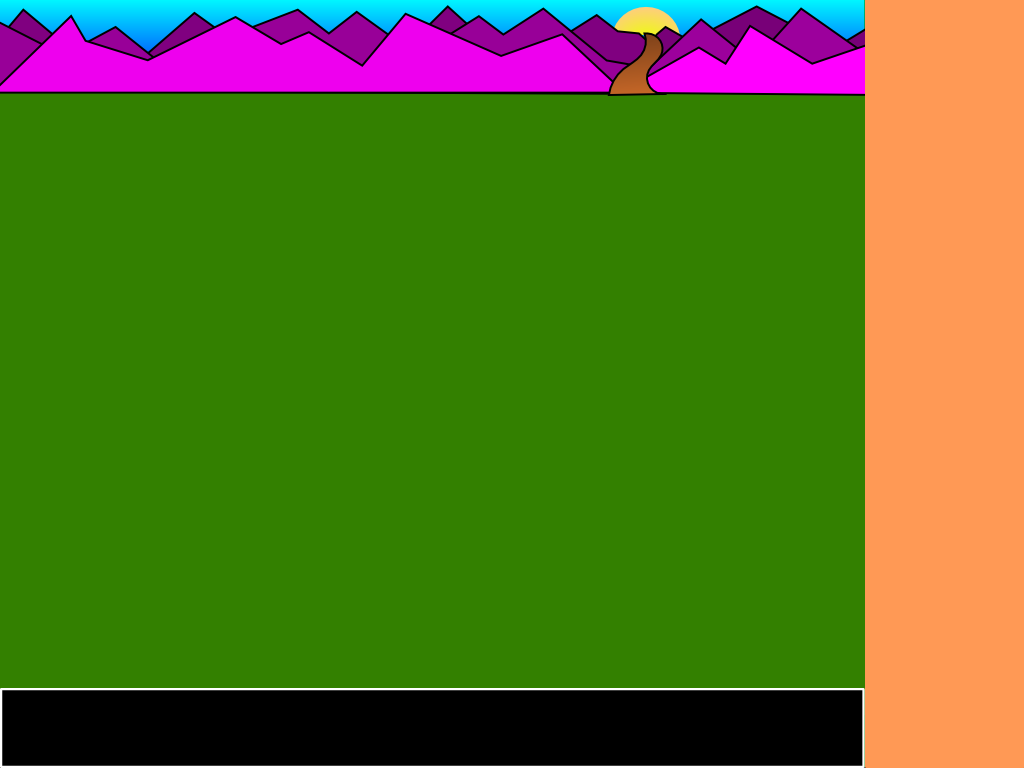
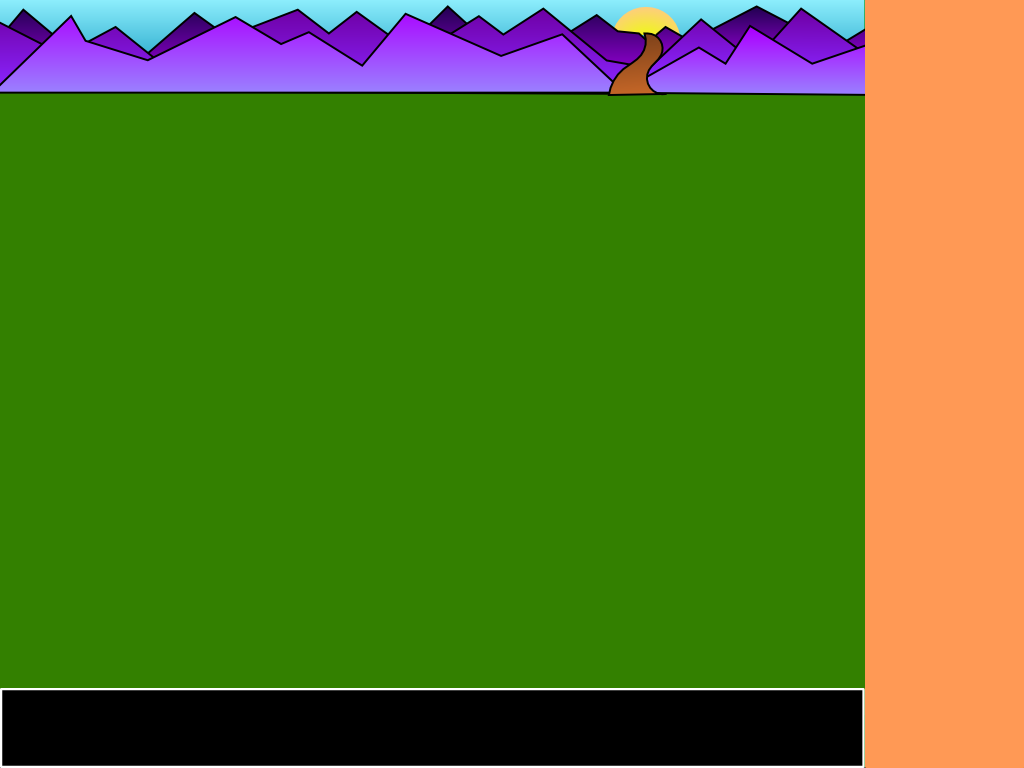
Tweaked collision physics; added sort order to drawing algorithm; toned down fucia mountains.

Changed region(s): [[0.0, 0.0, 0.8438, 0.125]]

diff --git a/lib/game/base-level.js b/lib/game/base-level.js
@@ -211,6 +211,12 @@ BaseLevel = ig.Class.extend({
 			collider = this.ava;
 		}
 
+		if (bDidCollide) {
+			if (!bNear) {
+				bDidCollide = collider.getWantDir() !== mover.getWantDir();
+			}
+		}
+
 		if (!bDidCollide) {
 			var colliders = this.getAnimalsFromScene(row, col);
 			for (var iAnimal=0; !bDidCollide && iAnimal<colliders.length; ++iAnimal) {
@@ -219,22 +225,25 @@ BaseLevel = ig.Class.extend({
 					// No collision with horses on the way to the goal.
 					continue;
 				}
+				else if (collider === mover) {
+					// Don't collide with ourselves.
+					continue;
+				}
 
-				var bLocalCollide = false;
-				bLocalCollide = mover !== collider && collider !== null;
+				// If we've gotten this far, we must have collided with another animal.
+				var bLocalCollide = true;
 
-				var bDukeInCollision = bMoverIsDuke || collider instanceof Duke;
-				if (bLocalCollide && !bDukeInCollision) {
-					if (bNear) {
+				if (bLocalCollide && !bMoverIsDuke) {
+					if (mover.inSameSpotAs(collider)) {
+						bLocalCollide = false;
+					}
+					else if (bNear) {
 						bLocalCollide = mover.getTestDir() !== collider.getWantDir();
 					}
 					else {
-						bLocalCollide = this.areOpposedDirections(mover.getTestDir(), collider.getWantDir());
+						bLocalCollide = collider.isBlocked() || this.areOpposedDirections(mover.getTestDir(), collider.getWantDir());
 					}
 				}
-				// else if (bLocalCollide && bDukeInCollision) {
-				// 	bLocalCollide = mover.getWantDir() !== collider.getWantDir();
-				// }
 
 				bDidCollide |= bLocalCollide;
 			}
@@ -926,11 +935,31 @@ BaseLevel = ig.Class.extend({
 					var sceneCol = Math.floor(iCol / 2);
 					var animals = this.scene[sceneRow][sceneCol];
 
-					for (var iAnimal=0; iAnimal<animals.length; ++iAnimal) {
-						var sceneElement = animals[iAnimal];
+					// Draw in order of ID to ensure consistent sorting.
+					var endIndex = animals.length - 1;
+					var drawIndex = 0;
+					while (endIndex >= 0) {
+						var maxIndex = endIndex;
+						var maxValue = animals[maxIndex].id;
+
+						for (var iAnimal=0; iAnimal<endIndex - 1; ++iAnimal) {
+							var testValue = animals[iAnimal].id;
+							if (testValue > maxValue) {
+								maxValue = testValue;
+								maxIndex = iAnimal;
+							}
+						}
+
+						var sceneElement = animals[maxIndex];
 						if (sceneElement) {
+							sceneElement.setDrawOffset(drawIndex);
 							sceneElement.draw();
 						}
+
+						animals[maxIndex] = animals[endIndex];
+						animals[endIndex] = sceneElement;
+						endIndex -= 1;
+						drawIndex++;
 					}
 
 					if (this.ava && sceneRow === avaRow && sceneCol === avaCol && !this.ava.isJumping()) {

diff --git a/lib/game/level-basic-09.js b/lib/game/level-basic-09.js
@@ -1,5 +1,5 @@
 ig.module( 
-	'game.level-basic-07' 
+	'game.level-basic-09' 
 )
 .requires(
 	'game.game-level',
@@ -14,23 +14,23 @@ ig.module(
 // Map size: 16 tiles x 12 tiles
 
 
-LevelBasic07 = GameLevel.extend({
+LevelBasic09 = GameLevel.extend({
 	geometry: 		[
 									"...........................",
 									".*.*.*.*.*.*.*.*.*.*.*.*.*.",
-									"......._._._..._._._.......",
-									".*.*.*|*.*.*.*.*.*.*|*.*.*.",
 									"...........................",
-									".*.*.*|*.*.*.*.*.*.*|*.*.*.",
-									"...........................",
-									".*.*.*|*.*.1.*.*.*.*|*.*.*.",
-									"...........................",
-									".*.*.*|*.*.*.*.*.*.*|*.*.*.",
-									"......._._._._._._........",
-									".*.*.*|3.2.2.2.2.2.*|*.*.*.",
-									"......._._._._._._._.......",
 									".*.*.*.*.*.*.*.*.*.*.*.*.*.",
+									"..........._._._._._.......",
+									".*.*.*|*.*.*.*.*.*.*.*.*.*.",
 									"...........................",
+									".*.*.*.*.*.*.*.*.*.*.*|*.*.",
+									"....................._.....",
+									".*.*.*|*.*.1.*.*|3.2|*.*.*.",
+									"......._...................",
+									".*.*.*.*.*.*.*.*|3.2|*.*.*.",
+									"..........._._._...........",
+									".*.*.*.*.*.*.*.*|3.2|*.*.*.",
+									"................._._.......",
 									".*.*.*.*.*.*.*.*.*.*.*.*.*.",
 									"...........................",
 									".*.*.*.*.*.*.*.*.*.*.*.*.*.",
@@ -38,7 +38,7 @@ LevelBasic07 = GameLevel.extend({
 								],
 
 	hints: 				[
-									"What a line! It's like they're waiting at the Post Office!"
+									"This one looks tough. Better be careful.",
 								],
 
 });

diff --git a/lib/game/horse-sprite.js b/lib/game/horse-sprite.js
@@ -21,6 +21,10 @@ HorseSprite = AnimalSprite.extend({
     return this.wantDir;
   },
 
+  isBlocked: function() {
+    return this.wantDir === Constants.DIRECTION.BLOCKED || this.state === Constants.HORSE_STATE.WAITING;
+  },
+
 	init: function(row, col, settings) {
     x = this.resolveX(col);
     y = this.resolveY(row);
@@ -76,7 +80,7 @@ HorseSprite = AnimalSprite.extend({
 
   update: function(level) {
     this.parent();
-    
+
     // Update rear "animation".
     if (this.rearTimer > 0) {
       this.rearTimer = this.rearTimer - ig.Game._dt;
@@ -182,6 +186,9 @@ HorseSprite = AnimalSprite.extend({
 
   	ig.system.context.save();
 
+    this.visualGridPos.x += Constants.DRAW_OFFSET_DX * this.drawOffset;
+    this.visualGridPos.y += Constants.DRAW_OFFSET_DY * this.drawOffset;
+
     if (this.state === Constants.HORSE_STATE.JUMPING) {
       ig.system.context.translate(this.visualGridPos.x + Constants.TILE_DX / 2, this.visualGridPos.y + Constants.TILE_DY / 2 - Constants.TILE_DY / 4 * Math.sin(this.rearTimer / Constants.JUMP_DURATION * Math.PI));
     }
@@ -193,6 +200,9 @@ HorseSprite = AnimalSprite.extend({
   		// TODO: give each horse a unique frequency of rotation to stagger animations.
 	  	ig.system.context.rotate(this.getRotation());
 	  }
+
+    this.visualGridPos.x -= Constants.DRAW_OFFSET_DX * this.drawOffset;
+    this.visualGridPos.y -= Constants.DRAW_OFFSET_DY * this.drawOffset;
 
   	this.parent();
   	ig.system.context.restore();

diff --git a/lib/game/level-basic-08.js b/lib/game/level-basic-08.js
@@ -1,5 +1,5 @@
 ig.module( 
-	'game.level-basic-07' 
+	'game.level-basic-08' 
 )
 .requires(
 	'game.game-level',
@@ -14,23 +14,23 @@ ig.module(
 // Map size: 16 tiles x 12 tiles
 
 
-LevelBasic07 = GameLevel.extend({
+LevelBasic08 = GameLevel.extend({
 	geometry: 		[
 									"...........................",
 									".*.*.*.*.*.*.*.*.*.*.*.*.*.",
-									"......._._._..._._._.......",
-									".*.*.*|*.*.*.*.*.*.*|*.*.*.",
 									"...........................",
-									".*.*.*|*.*.*.*.*.*.*|*.*.*.",
-									"...........................",
-									".*.*.*|*.*.1.*.*.*.*|*.*.*.",
-									"...........................",
-									".*.*.*|*.*.*.*.*.*.*|*.*.*.",
-									"......._._._._._._........",
-									".*.*.*|3.2.2.2.2.2.*|*.*.*.",
-									"......._._._._._._._.......",
 									".*.*.*.*.*.*.*.*.*.*.*.*.*.",
+									".......-.-.-.-.-.-.-.......",
+									".*.*.*.*.1.*.*.*.*.*.*.*.*.",
 									"...........................",
+									".*.*.*.*.*.2.*.*.*.*.*.*|*.",
+									"...........................",
+									".*|*.*.*.*.*.*.3.*.*.*.*.*.",
+									"...........................",
+									".*.*.*.*.*.*.*.*.*.*.*.*.*.",
+									"..........................",
+									".*.*.*]*.*.*.*.*.*.*]*.*.*.",
+									".......-.-.-.-.-.-.-.......",
 									".*.*.*.*.*.*.*.*.*.*.*.*.*.",
 									"...........................",
 									".*.*.*.*.*.*.*.*.*.*.*.*.*.",

diff --git a/lib/game/main.js b/lib/game/main.js
@@ -23,6 +23,8 @@ ig.module(
 	'game.level-basic-05',
 	'game.level-basic-06',
 	'game.level-basic-07',
+	'game.level-basic-08',
+	'game.level-basic-09',
 	'game.level-basic-10' 
 
 )
@@ -62,14 +64,16 @@ Steps = ig.Game.extend({
   		this.levels[0].unshift(new LevelTutorial02());
   		this.levels[0].unshift(new LevelTutorial01());
 
-  		this.levels[1].push(new LevelBasic07());
-  		this.levels[1].push(new LevelBasic06());
-  		this.levels[1].push(new LevelBasic05());
-  		this.levels[1].push(new LevelBasic10());
-  		this.levels[1].push(new LevelBasic04());
-  		this.levels[1].push(new LevelBasic03());
-  		this.levels[1].push(new LevelBasic02());
-  		this.levels[1].push(new LevelBasic01());
+  		this.levels[1].unshift(new LevelBasic10());
+  		this.levels[1].unshift(new LevelBasic09());
+  		this.levels[1].unshift(new LevelBasic08());
+  		this.levels[1].unshift(new LevelBasic07());
+  		this.levels[1].unshift(new LevelBasic06());
+  		this.levels[1].unshift(new LevelBasic05());
+  		this.levels[1].unshift(new LevelBasic04());
+  		this.levels[1].unshift(new LevelBasic03());
+  		this.levels[1].unshift(new LevelBasic02());
+  		this.levels[1].unshift(new LevelBasic01());
 	},
 	
 	initInput: function() {

diff --git a/lib/game/sprite.js b/lib/game/sprite.js
@@ -21,6 +21,7 @@ Sprite = ig.Class.extend({
   id:               0,
   bReverseX:        false,
   collisionResults: null,
+  drawOffset:       0,
   localCollision:   {x:0, y:0, bDidCollide: false, flags:0, oldRow:0, newRow:0, oldCol:0, newCol:0, oldChar:0, colCharNew:0, bVertical:false},
 
   setDirection: function(direction) {
@@ -29,6 +30,10 @@ Sprite = ig.Class.extend({
 
   getDrawAlpha: function() {
     return 1;
+  },
+
+  isBlocked: function() {
+    return this.wantDir === Constants.DIRECTION.BLOCKED;
   },
 
   flipX: function() {
@@ -294,6 +299,15 @@ Sprite = ig.Class.extend({
                    centerY < minY || centerY > maxY;
 
     return bOutOfBounds;
+  },
+
+  inSameSpotAs: function(otherSprite) {
+    return otherSprite && (this.getRow(true) === otherSprite.getRow(true) &&
+            this.getCol(true) === otherSprite.getCol(true));
+  },
+
+  setDrawOffset: function(offset) {
+    this.drawOffset = offset;
   },
 
   drawDebug: function() {

diff --git a/lib/game/animal-sprite.js b/lib/game/animal-sprite.js
@@ -90,7 +90,7 @@ AnimalSprite = Sprite.extend({
 						var spookedDir = spookedAnimal.getWantDir();
 						if (!bSpookedIsMoving ||
 							  (bIsDuke && !level.areOpposedDirections(spookedAnimal.getWantDir(), spookDir))) {
-							// Spooked animal either isn't moving or is moving perpendicular to our path.
+							// Spooked animal either isn't moving or is moving opposite our path.
 							spookedAnimal.setDirection(spookDir);
 							if (!spookedAnimal.hasUpdated()) {
 								level.updateAnimal(spookedAnimal);

diff --git a/lib/game/constants.js b/lib/game/constants.js
@@ -18,6 +18,9 @@ Constants.TEXT_CONTROL_NOT_READY  = "This control isn't hooked up, yet.";
 Constants.TEXT_ESCAPED            = "Escaped!";
 Constants.TEXT_TRY_AGAIN          = "Better try again.";
 
+Constants.DRAW_OFFSET_DX          = 2;
+Constants.DRAW_OFFSET_DY          = 2;
+
 Constants.WIDTH		= 				1024;
 Constants.HEIGHT	= 				768;
 Constants.TILE_DX	= 				64;
